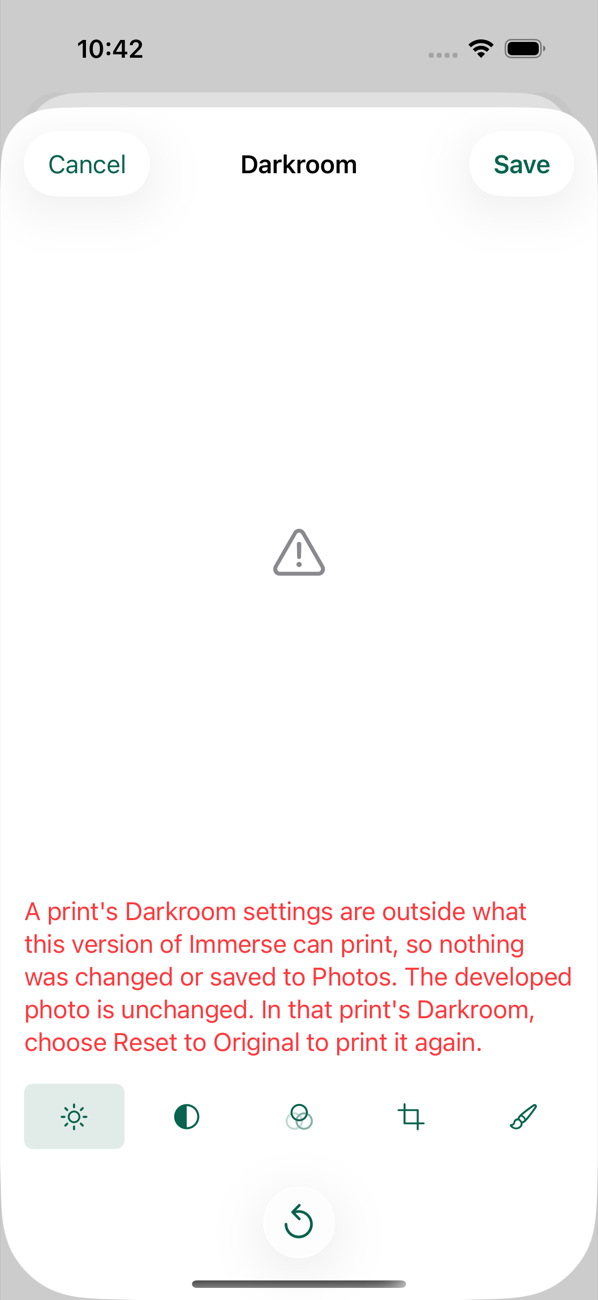
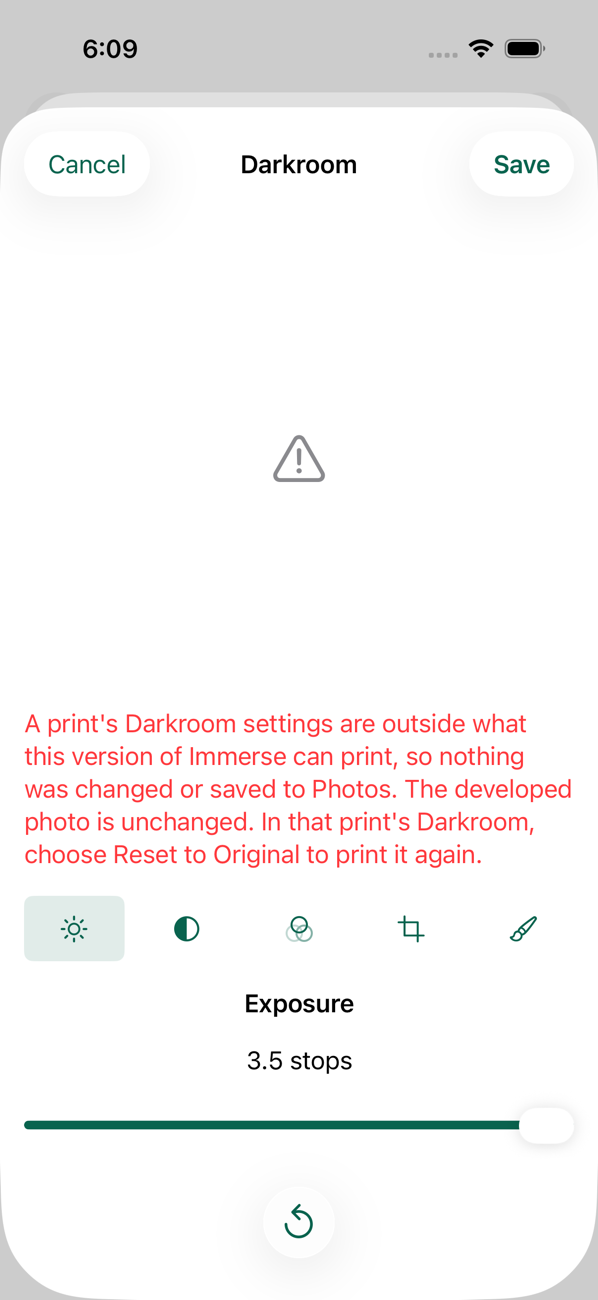
no-mistakes(test): fix(darkroom): keep selected tool on screen under an explanation

diff --git a/Probes/PopulatedJournalHarness/Tests/PopulatedWorkflowTests.swift b/Probes/PopulatedJournalHarness/Tests/PopulatedWorkflowTests.swift
@@ -625,6 +625,69 @@ final class PopulatedWorkflowTests: XCTestCase {
         XCTAssertFalse(undo.isEnabled, "\(name): Undo last stroke takes the tap")
     }
 
+    /// A Darkroom explanation takes its height from the print, so the selected tool stays where a finger finds it. With
+    /// the explanation of a print whose stored recipe is outside the limits showing (`--recipe-outside-limits`), at the
+    /// default text size the tool row, the tool's heading, its value and its slider all rest on screen, above the fade
+    /// and the Reset to Original bar, and the slider takes a drag with nothing scrolled. At the largest size the
+    /// explanation alone is taller than the screen, so the slider is scrolled to: it comes fully clear of the fade and
+    /// takes the same drag.
+    func testDarkroomRestsTheSelectedToolOnScreenUnderAnExplanation() throws { assertDarkroomExplains(largest: false) }
+    func testDarkroomUnderAnExplanationScrollsItsSliderClearAtTheLargestSize() throws { assertDarkroomExplains(largest: true) }
+
+    private func assertDarkroomExplains(largest: Bool) {
+        var arguments = ["--developed-photo", "--recipe-outside-limits"]
+        if largest { arguments += ["-UIPreferredContentSizeCategoryName", "UICTContentSizeCategoryAccessibilityXXXL"] }
+        let app = launch(arguments: arguments)
+        openFilm(app)
+        let open = app.buttons["Open photo 1"]
+        for _ in 0..<12 where !open.exists { _ = open.waitForExistence(timeout: 3); if !open.exists { app.swipeUp() } }
+        XCTAssertTrue(open.exists, "\(largest)")
+        open.tap()
+        app.buttons["Darkroom"].tap()
+        let name = "Darkroom-explanation-\(largest ? "largest" : "default")"
+        let mark = app.images["Print unavailable"]
+        XCTAssertTrue(mark.waitForExistence(timeout: 20), "\(name): the print is refused")
+        let explanation = app.staticTexts.containing(NSPredicate(format: "label CONTAINS %@", "outside what this version of Immerse can print")).firstMatch
+        XCTAssertTrue(explanation.exists, "\(name): the Darkroom says why")
+        let exposure = app.sliders["Print exposure"]
+        XCTAssertTrue(exposure.exists, "\(name) slider")
+        // Let the controls' measured height settle before reading frames.
+        Thread.sleep(forTimeInterval: 1.5)
+        let bar = app.navigationBars["Darkroom"]
+        let reset = app.buttons["Reset to Original"]
+        let area = app.scrollViews.containing(NSPredicate(format: "label == %@", "Print unavailable")).firstMatch.frame
+        // The scroll area's last 12 pt fade out, so a control in full view ends above them.
+        let clear = area.maxY - 12 + 1
+        snapshot(app, name)
+        if largest {
+            // The held drags in the left margin neither coast nor move a slider.
+            for _ in 0..<16 where exposure.frame.maxY > clear {
+                let start = app.coordinate(withNormalizedOffset: CGVector(dx: 0.02, dy: 0.7))
+                start.press(forDuration: 0.05, thenDragTo: start.withOffset(CGVector(dx: 0, dy: -240)), withVelocity: .slow, thenHoldForDuration: 0.3)
+            }
+            snapshot(app, "\(name)-slider")
+        } else {
+            XCTAssertGreaterThanOrEqual(mark.frame.minY, bar.frame.maxY, "\(name): the print's place is below the navigation bar")
+            XCTAssertLessThanOrEqual(mark.frame.maxY, explanation.frame.minY, "\(name): the explanation is under the print's place")
+            let tools = ["Exposure", "Contrast", "Filtration", "Crop", "Dodge / Burn"].map { app.buttons[$0] }
+            for control in [explanation, app.staticTexts["Exposure"], app.staticTexts["3.5 stops"]] + tools {
+                XCTAssertTrue(control.exists, name)
+                XCTAssertGreaterThanOrEqual(control.frame.minY, bar.frame.maxY, "\(name): \(control.label) rests on screen")
+                XCTAssertLessThanOrEqual(control.frame.maxY, clear, "\(name): \(control.label) rests on screen, above the fade")
+            }
+        }
+        XCTAssertGreaterThanOrEqual(exposure.frame.minY, bar.frame.maxY, "\(name): the slider is in view")
+        XCTAssertLessThanOrEqual(exposure.frame.maxY, clear, "\(name): the slider is in view, above the fade")
+        XCTAssertLessThanOrEqual(area.maxY, reset.frame.minY, "\(name): the controls end above Reset to Original")
+        XCTAssertTrue(reset.isHittable, "\(name): Reset to Original is on screen")
+        // A drag sent to where the slider's thumb is, which scrolls nothing: 3.5 stops rests at the slider's end.
+        exposure.coordinate(withNormalizedOffset: CGVector(dx: 0.96, dy: 0.5))
+            .press(forDuration: 0.2, thenDragTo: exposure.coordinate(withNormalizedOffset: CGVector(dx: -0.2, dy: 0.5)))
+        XCTAssertTrue(app.staticTexts["-3.0 stops"].waitForExistence(timeout: 5), "\(name): the slider takes the drag")
+        XCTAssertTrue(app.images["Photo 1, print preview"].waitForExistence(timeout: 20), "\(name): inside the limits the print is made")
+        XCTAssertFalse(explanation.exists, "\(name): the explanation goes once the print can be made")
+    }
+
     /// A test whose Film is on the 16mm Cinema's or the 6×6 Medium Format's color Film Stock is skipped where Core
     /// Image cannot run the tetrahedral reader: there the harness cannot develop that Film.
     private func requireTetrahedralReader() throws {

diff --git a/App/Immerse/Sources/PhotoView.swift b/App/Immerse/Sources/PhotoView.swift
@@ -13,8 +13,9 @@ private struct ControlsHeightKey: PreferenceKey {
 /// below the navigation bar: the sheet's safe area starts under the bar, and the content scrolls only when even the
 /// smallest print does not fit. The scroll area stops above the floating Reset to Original bar, so no control rests
 /// under it, where its taps would reach the bar, and the last row scrolls fully clear of it. Rendering shows over the
-/// print and an error between the print and the controls, both outside the measured controls, so neither resizes the
-/// print on every render or rescales a Dodge/Burn stroke.
+/// print, outside the measured controls, so it does not resize the print on every render or rescale a Dodge/Burn
+/// stroke. An error shows between the print and the controls and is measured with them: the print gives up the
+/// error's height, so the selected tool rests on screen under the error and does not wait below the fold.
 struct DarkroomLayout<Preview: View, Controls: View>: View {
     let rendering: Bool
     let error: String?
@@ -23,8 +24,9 @@ struct DarkroomLayout<Preview: View, Controls: View>: View {
     /// The height of everything under the print, measured at the current text size.
     @State private var controlsHeight: CGFloat = 260
 
-    /// The smallest height the print preview is scaled down to before the screen scrolls.
-    private static var minimumPrintHeight: CGFloat { 160 }
+    /// The smallest height the print preview is scaled down to before the screen scrolls. Under an error it is half
+    /// that: the longest explanation then leaves the Exposure tool on an iPhone SE's screen, with the print still shown.
+    private var minimumPrintHeight: CGFloat { error == nil ? 160 : 80 }
 
     /// The controls' bottom margin, over which controls that run past the scroll area fade out rather than end in a
     /// sliver. The last row, scrolled fully into view, ends above it.
@@ -36,7 +38,7 @@ struct DarkroomLayout<Preview: View, Controls: View>: View {
     private static var bottomBarSpacing: CGFloat { 4 }
 
     private func printHeight(in available: CGFloat) -> CGFloat {
-        max(Self.minimumPrintHeight, available - controlsHeight - 18 - 16 - Self.bottomMargin - Self.bottomBarSpacing)
+        max(minimumPrintHeight, available - controlsHeight - 18 - 16 - Self.bottomMargin - Self.bottomBarSpacing)
     }
 
     var body: some View {
@@ -47,9 +49,10 @@ struct DarkroomLayout<Preview: View, Controls: View>: View {
                         .overlay(alignment: .topTrailing) {
                             if rendering { ProgressView().accessibilityLabel("Rendering print") }
                         }
-                    if let error { Text(error).foregroundStyle(.red) }
-                    VStack(spacing: 18) { controls }
-                        .background(GeometryReader { Color.clear.preference(key: ControlsHeightKey.self, value: $0.size.height) })
+                    VStack(spacing: 18) {
+                        if let error { Text(error).foregroundStyle(.red) }
+                        controls
+                    }.background(GeometryReader { Color.clear.preference(key: ControlsHeightKey.self, value: $0.size.height) })
                 }.padding([.horizontal, .top]).padding(.bottom, Self.bottomMargin)
             }
             .onPreferenceChange(ControlsHeightKey.self) { controlsHeight = $0 }
@@ -312,11 +315,13 @@ struct DarkroomView: View {
                 recipe.crop = $0 ? Crop(x: 0, y: 0, width: 1, height: 1) : nil; render()
             }))
             if let crop = recipe.crop {
-                Text("Size").font(.caption)
-                Slider(value: Binding(get: { crop.width }, set: {
-                    let size = $0
-                    recipe.crop = Crop(x: min(crop.x, 1 - size), y: min(crop.y, 1 - size), width: size, height: size)
-                }), in: 0.2...1, onEditingChanged: { if !$0 { render() } }).accessibilityLabel("Crop size")
+                VStack(alignment: .leading) {
+                    Text("Size").font(.caption)
+                    Slider(value: Binding(get: { crop.width }, set: {
+                        let size = $0
+                        recipe.crop = Crop(x: min(crop.x, 1 - size), y: min(crop.y, 1 - size), width: size, height: size)
+                    }), in: 0.2...1, onEditingChanged: { if !$0 { render() } }).accessibilityLabel("Crop size")
+                }
                 if crop.width < 1 {
                     cropPosition("Horizontal", x: true)
                     cropPosition("Vertical", x: false)

diff --git a/App/Immerse/Tests/JournalIntegrationTests.swift b/App/Immerse/Tests/JournalIntegrationTests.swift
@@ -283,9 +283,9 @@ final class JournalIntegrationTests: XCTestCase {
         XCTAssertEqual(SpokenText.of(text), spoken, file: file, line: line)
     }
 
-    /// A Darkroom error shows between the print and its controls without resizing or moving the print, so the print
-    /// and a Dodge/Burn stroke on it keep one scale; only the controls move down while it shows.
-    func testADarkroomErrorNeitherResizesNorMovesThePrint() async throws {
+    /// A Darkroom error shows between the print and its controls in height the print gives up, so the controls keep
+    /// their place and the selected tool stays on screen under it; the print has its size back when the error goes.
+    func testADarkroomErrorTakesItsHeightFromThePrintAndLeavesTheControlsInPlace() async throws {
         let probe = DarkroomLayoutProbe()
         let scene = try XCTUnwrap(UIApplication.shared.connectedScenes.compactMap { $0 as? UIWindowScene }.first)
         let window = UIWindow(windowScene: scene)
@@ -297,8 +297,16 @@ final class JournalIntegrationTests: XCTestCase {
 
         probe.error = "The print could not be rendered. Your Original and the last saved print are unchanged."
         let failed = try await settledFrames(probe)
-        XCTAssertEqual(failed.print, resting.print, "An error leaves the print's size and place alone")
-        XCTAssertGreaterThan(failed.controls.minY, resting.controls.minY + 18, "The error shows between the print and the controls")
+        XCTAssertEqual(failed.controls.minY, resting.controls.minY, accuracy: 0.5, "An error leaves the controls where they were")
+        XCTAssertEqual(failed.controls.size, resting.controls.size)
+        XCTAssertEqual(failed.print.minY, resting.print.minY, accuracy: 0.5, "The print keeps its top edge")
+        XCTAssertGreaterThan(failed.controls.minY, failed.print.maxY + 18 + 18, "The error shows between the print and the controls")
+
+        // An error with more to say than the print has room to give leaves a smaller print, never none, and the screen scrolls.
+        probe.error = String(repeating: "The print could not be rendered. ", count: 80)
+        let crowded = try await settledFrames(probe)
+        XCTAssertEqual(crowded.print.height, 80, accuracy: 0.5, "Under an error the print is never smaller than this")
+        XCTAssertEqual(crowded.print.minY, resting.print.minY, accuracy: 0.5)
 
         probe.error = nil
         let cleared = try await settledFrames(probe)

diff --git a/Probes/PopulatedJournalHarness/Sources/WorkflowScenario.swift b/Probes/PopulatedJournalHarness/Sources/WorkflowScenario.swift
@@ -1,7 +1,7 @@
 import CryptoKit
 import EntitlementCore
 import FilmDomain
-import FilmPersistence
+@testable import FilmPersistence
 import Foundation
 import Observation
 import RenderCore
@@ -141,6 +141,13 @@ private struct FixtureTrialStore: DeviceTrialStoring {
         }
         scenario.model.refresh()
         try await scenario.inspect(reason: reopening ? "reopen" : "seeded")
+        // `--recipe-outside-limits` leaves print 1 a stored print exposure of 3.5 stops, which only a build with wider
+        // limits or a damaged store can: the app's own writers refuse it, so it goes to the store beside them. It is
+        // written after the inspection above, which prints every photo, so such a history is never inspected or reopened.
+        if !reopening, arguments.contains("--recipe-outside-limits"), let film = scenario.model.films.first {
+            try scenario.model.repository.database.setValue(filmID: film.id, key: "recipe-1",
+                data: Data(#"{"printExposureStops":3.5,"dodgeBurnMasks":[]}"#.utf8))
+        }
         return scenario
     }
 

diff --git a/Probes/PopulatedJournalHarness/Tests/RetainedWorkflowTests.swift b/Probes/PopulatedJournalHarness/Tests/RetainedWorkflowTests.swift
@@ -131,6 +131,11 @@ import XCTest
         size.adjust(toNormalizedSliderPosition: 0.6)
         XCTAssertTrue(app.sliders["Crop Horizontal"].exists)
         XCTAssertTrue(app.sliders["Crop Vertical"].exists)
+        // The three crop captions sit alike, at their sliders' leading edge.
+        for caption in ["Size", "Horizontal", "Vertical"] {
+            XCTAssertEqual(app.staticTexts[caption].frame.minX, size.frame.minX, accuracy: 1, caption)
+        }
+        snapshot(app, "darkroom-crop-captions")
         crop.tap()
 
         app.buttons["Dodge / Burn"].tap()

diff --git a/Evidence/NativeApp/darkroom-export-decisions-060.md b/Evidence/NativeApp/darkroom-export-decisions-060.md
@@ -7,7 +7,7 @@ The Instant's contrast and print-to-print variation and the toning strength are 
 What he was asked, in the words he read, and what he said are in the 2026-10-13 addendum to the [open-decision recommendations](../../2026-09-29-film-camera-experience-v1/2026-09-29-film-camera-experience-v1-open-decision-recommendations.md).
 This note records what the app does about each answer, the choices made in carrying them, what was run, and what was not.
 
-Everything here ran on a Mac and an iPhone 17 Pro simulator on iOS 26.5.
+Everything here ran on a Mac and an iPhone 17 Pro simulator on iOS 26.5; the round after testing also ran on an iPhone SE (3rd generation) simulator.
 The tables below say what was run before the merge with main and what was run again after it.
 Nothing ran on a phone.
 
@@ -75,19 +75,21 @@ Seven overlapping 0.4-stop strokes, 2.8 stops, print as before, and the test hol
 The Darkroom cannot make one.
 Only a build with wider limits, or a damaged store, can leave one.
 
-What the app does (`StoredRecipeLimitsTests`, and by hand in the simulator with a stored exposure of 3.5 stops):
+What the app does (`StoredRecipeLimitsTests`, by hand in the simulator with a stored exposure of 3.5 stops, and in the populated harness, whose `--recipe-outside-limits` stores the same value):
 
 - The recipe is read as it was stored, and nothing clamps it.
 - The print is refused wherever it would be made.
   The Film screen shows a warning mark in its place.
   Its Darkroom opens, says the settings are outside what this version can print, and offers Reset to Original.
+  The explanation takes its height from the print's place, so the tools, the selected tool's value and slider, and Reset to Original rest on one screen under it.
   Saving the same recipe again is refused.
 - Save Developed to Photos checks every recipe before it writes anything, so it stops with nothing saved.
 - The developed master and every other print are untouched.
 - Reset to Original, saved, prints the developed master again, byte for byte.
 
 This handling is kept by the task's decision.
-The task asked for this state to be defined and tested, and this is the least that keeps it honest for the person holding the phone: the print says it cannot be made and why, Reset to Original prints it again, and an export stops before anything is saved to Photos.
+The task asked for this state to be defined and tested, and this keeps it honest for the person holding the phone: the print says it cannot be made and why, Reset to Original prints it again, and an export stops before anything is saved to Photos.
+Testing added one thing to it, the Darkroom's layout under the explanation (see After testing); no word of the explanation changed.
 It is named in the addendum as his to see.
 
 | The Film screen | Its Darkroom | After Reset to Original |
@@ -295,6 +297,76 @@ Run in the second round, on an iPhone 17 Pro simulator on iOS 26.5 made for the 
 
 The harness build compiled RenderCore without the removed helper.
 No package test was run again in this round.
+
+## After testing
+
+Testing drove the app in the populated harness on an iPhone 17 Pro simulator in light and an iPhone SE (3rd generation) simulator in dark, both on iOS 26.5.
+Every scenario passed.
+It found two things to correct in how the Darkroom is laid out, and the task's supervisor decided both.
+
+### The Darkroom under an explanation
+
+With the explanation of a stored value outside the limits showing, the selected tool's heading, its value and its slider rested below the fold on both phones, and on the iPhone SE the fade cut the tool row.
+The print's place was sized from the controls alone, so the explanation pushed the controls down by its own height.
+
+The explanation is now measured with the controls (`DarkroomLayout` in `PhotoView.swift`).
+The print's place gives up the explanation's height and the controls stay where they were.
+At the normal text size the tool row, the tool's heading, its value, its slider and Reset to Original rest on one screen, on the iPhone SE and on the iPhone 17 Pro, in light and in dark.
+No word of the explanation changed.
+
+The rule belongs to every Darkroom error, not to this one: a print that could not be rendered and a save that was refused lay out the same way.
+A Darkroom with no error showing is laid out as before.
+Four pictures of it (a Disposable and an Instant print, at the default and the largest text size) taken before and after the change on the iPhone SE in dark are the same outside the clock and the print's own picture, which is developed anew for each run.
+The one exception is 14 pixels in the glass of the Reset to Original button, 2 levels of 255 apart in three of the four.
+
+Three things follow from the rule and are worth knowing:
+
+- Under an error the print can be as small as 80 pt before the screen scrolls, half its ordinary 160 pt.
+  On the iPhone SE this explanation, six lines there, leaves the print's place 102.5 pt, so 160 pt would have left the slider below the fold.
+- While an error shows the print is smaller, and it has its size back when the error goes.
+  A Dodge/Burn stroke is kept as fractions of the picture, so it lands where it was drawn at either size.
+  Rendering still shows over the print and resizes nothing.
+- At the largest text size the explanation alone is taller than the screen, so the controls are scrolled to.
+  The slider comes fully clear of the fade and takes a drag there.
+
+This replaces a rule of PRD 2.1 slice 1 ([`prd-2-slice-1-names-card-copy.md`](prd-2-slice-1-names-card-copy.md)), under which an error left the print's size alone and moved the controls down.
+The hosted test that held that rule, `testADarkroomErrorNeitherResizesNorMovesThePrint`, is now `testADarkroomErrorTakesItsHeightFromThePrintAndLeavesTheControlsInPlace`.
+
+The picture of the Darkroom under A stored value outside the limits, above, was taken again.
+It showed the tool row as the last thing on screen.
+
+### The crop's Size caption
+
+The caption over the crop's size slider was centered and stood further from its slider than the Horizontal and Vertical captions under it.
+It is now in the same leading stack as they are.
+This is older than this change (2026-10-02).
+
+### What holds it
+
+- `testDarkroomRestsTheSelectedToolOnScreenUnderAnExplanation` (populated harness) opens the Darkroom of a print whose stored exposure is 3.5 stops (`--recipe-outside-limits`), checks that the explanation, the tool row, the heading, the value and the slider rest between the navigation bar and the fade, above Reset to Original, and drags the slider's thumb where it rests, with nothing scrolled.
+  The print is then made again and the explanation goes.
+- `testDarkroomUnderAnExplanationScrollsItsSliderClearAtTheLargestSize` does the same at the largest text size after scrolling the slider clear of the fade.
+- The hosted test named above shows and clears an error in the layout itself: the controls keep their frame, the print keeps its top edge and gives up the error's height, an error taller than the screen leaves the print 80 pt, and clearing the error restores every frame.
+- `testDarkroomAccessibleControlsReachNonGestureEditingPaths` (populated harness) now also checks that the three crop captions start at their sliders' leading edge.
+
+Run in this round, on an iPhone SE (3rd generation) and an iPhone 17 Pro simulator on iOS 26.5, made for the round and deleted after it:
+
+| Check | Result |
+| --- | --- |
+| `testDarkroomRestsTheSelectedToolOnScreenUnderAnExplanation` on the code before the fix, iPhone SE in dark | Fails: the heading ends at 626 pt where the scroll area's clear part ends at 566 pt, and the slider lies at 682.5 to 713.5 pt on a 667 pt screen |
+| The hosted layout test on the code before the fix | Fails: "An error leaves the controls where they were", 815.0 against 754.7 pt |
+| The crop caption check on the code before the fix | Fails: Size starts at 175.5 pt, its slider at 16 pt |
+| The two explanation tests on the fixed code, on the iPhone SE in dark and in light and on the iPhone 17 Pro in light and in dark | 2 passed, 0 failures, each of the four times |
+| The Darkroom's fit tests at the default and the largest text size for the Disposable, the Instant and both 6×6 Film Stocks, `testDarkroomExposureAndDodgeBurnReachThreeStopsAndSave`, `testInstantPrintShowsItsCardAndTheDarkroomOffersNoCrop`, `testBlackAndWhite6x6PrintTakesChemicalToning`, `testEarlyPhotoDevelopmentDarkroomAndRemoval`, and the retained tests `testDarkroomAccessibleControlsReachNonGestureEditingPaths`, `testSavedDarkroomEditAndExactResetPersistAcrossRelaunch` and `testDrawnDodgeStrokeChangesPrintAndPersistsAcrossRelaunch`, iPhone SE in dark | 15 passed, 0 failures |
+| The Disposable and Instant fit tests at both sizes and `testDarkroomAccessibleControlsReachNonGestureEditingPaths`, iPhone 17 Pro in light | 5 passed, 0 failures |
+| The hosted layout test and `testAPrintOutsideTheDarkroomLimitsExplainsItselfAndTheWayBack` on the fixed code, iPhone 17 Pro | 2 passed, 0 failures |
+
+The repository has no accessibility audit of the Darkroom to run: the fit tests are its text-size checks, and `testDarkroomAccessibleControlsReachNonGestureEditingPaths` is the check of its controls.
+The rest of the screen tests, the package tests and the other hosted tests were not run again in this round; they are the check's to run.
+
+| The Darkroom under the explanation, iPhone SE in dark, before | And after |
+| --- | --- |
+| ![The tool row cut by the fade, the slider below the fold](darkroom-export-decisions-060/stored-recipe-outside-limits-darkroom-se-before.png) | ![Everything rests on one screen](darkroom-export-decisions-060/stored-recipe-outside-limits-darkroom-se-after.png) |
 
 ## Not shown here
 

diff --git a/Evidence/NativeApp/prd-2-slice-1-names-card-copy.md b/Evidence/NativeApp/prd-2-slice-1-names-card-copy.md
@@ -78,6 +78,8 @@ The harness shots are on an iPhone SE (3rd generation), the smallest supported i
   With the scroll view reaching under the bar, they failed 12 times: Dodge point, Undo last stroke and a slider at the default size, and a slider at the largest size, for each Camera.
   Only the tool row, the tool's title and its controls are measured (`DarkroomLayout` in `PhotoView.swift`): rendering shows over the print and an error between the print and the controls, so neither resizes the print or rescales a Dodge/Burn stroke.
   `testADarkroomErrorNeitherResizesNorMovesThePrint` (`JournalIntegrationTests`) hosts the layout, shows and clears an error, and checks that the print keeps its frame while only the controls move; with the error back among the measured controls it fails, the print shrinking from 610.7 to 550.3 pt.
+  Changed on 2026-10-13: an error is measured with the controls again and takes its height from the print, so the selected tool stays on screen under it, and the test is now `testADarkroomErrorTakesItsHeightFromThePrintAndLeavesTheControlsInPlace` ([`darkroom-export-decisions-060.md`](darkroom-export-decisions-060.md), After testing).
+  Rendering still shows over the print and resizes nothing.
 - **6×6 spelling.**
   The display name and short name use the multiplication sign, and VoiceOver reads "6×6" as "6 by 6" (`SpokenText` in `FilmPresentation.swift`) in both names and in a shown Film title, such as the suggested "6×6 - Roll #01", in the Journal row and the Film screen's title.
   Shown text keeps "6×6" as its accessibility label and carries a "6 by 6" pronunciation: a "6 by 6" label, longer than the "6×6" drawn in the same frame, failed the clipped-text audit of the catalog at the largest size on CI (run 37788441803).

diff --git a/Probes/PopulatedJournalHarness/README.md b/Probes/PopulatedJournalHarness/README.md
@@ -67,6 +67,12 @@ reveal and the question about the print's original at the camera. Nothing is cap
 the simulator has no camera. `--two-sealed` leaves that Film two sealed prints where there is
 otherwise one, so the one Development reveals both.
 
+`--recipe-outside-limits` leaves print 1 a stored print exposure of 3.5 stops, past the Darkroom's
+limits, so a test can meet the print the app refuses and its Darkroom's explanation. The app's own
+writers refuse such a recipe, so the harness writes it to the store beside them, after the seeded
+inspection. The inspection prints every photo, so a history that holds it cannot be inspected or
+reopened: use it only in tests that do neither.
+
 These are functional navigation tests, not replacements for all-category
 accessibility audits or the hardware/manual matrix in
 `Evidence/NativeApp/launch-readiness.md`. Production export/privacy races have
